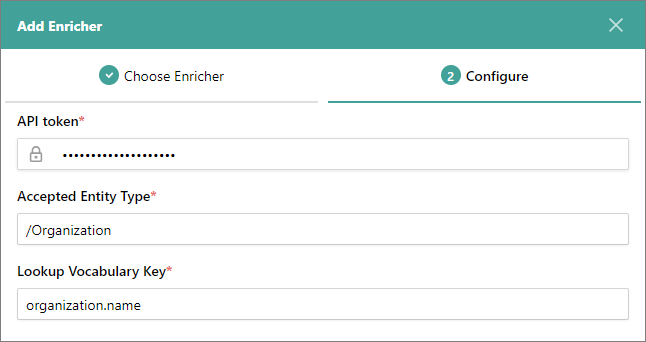
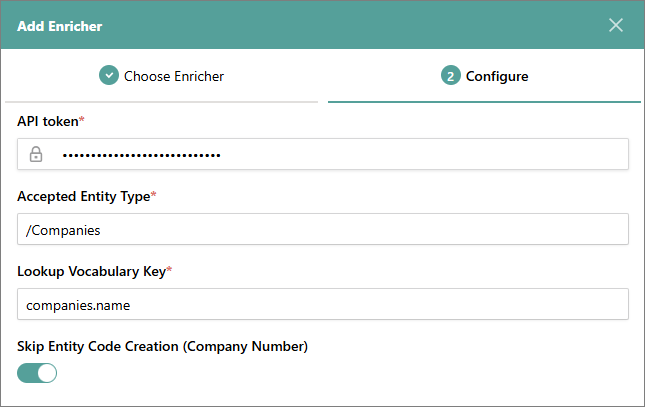
Updated OpenCorporates doc

diff --git a/docs/050-preparation/enricher/140-open-corporates.md b/docs/050-preparation/enricher/140-open-corporates.md
@@ -33,6 +33,8 @@ To use the OpenCorporates enricher, you must provide the API token. To get the A
 
     - **Lookup Vocabulary Key** – enter the vocabulary key that contains the names of companies that you want to enrich.
 
+    - **Skip Entity Code Creation (Company Number)** – turn on the toggle if you don't want to add new entity codes that come from the source system to the enriched golden records. Otherwise, new entity codes containing company numbers will be added to the enriched golden records.
+
         ![open-corporates-enricher-2.png](../../assets/images/preparation/enricher/open-corporates-enricher-2.png)
 
 1. Select **Add**.
@@ -45,7 +47,7 @@ After the OpenCorporates enricher is added, you can modify its details:
 
     ![open-corporates-enricher-3.png](../../assets/images/preparation/enricher/open-corporates-enricher-3.png)
 
-- **Authentication** – modify the details you provided to configure the enricher: **API Token**, **Accepted Entity Type**, and **Lookup Vocabulary Key**.
+- **Authentication** – modify the details you provided to configure the enricher.
 
 ## Properties from OpenCorporates enricher
 
